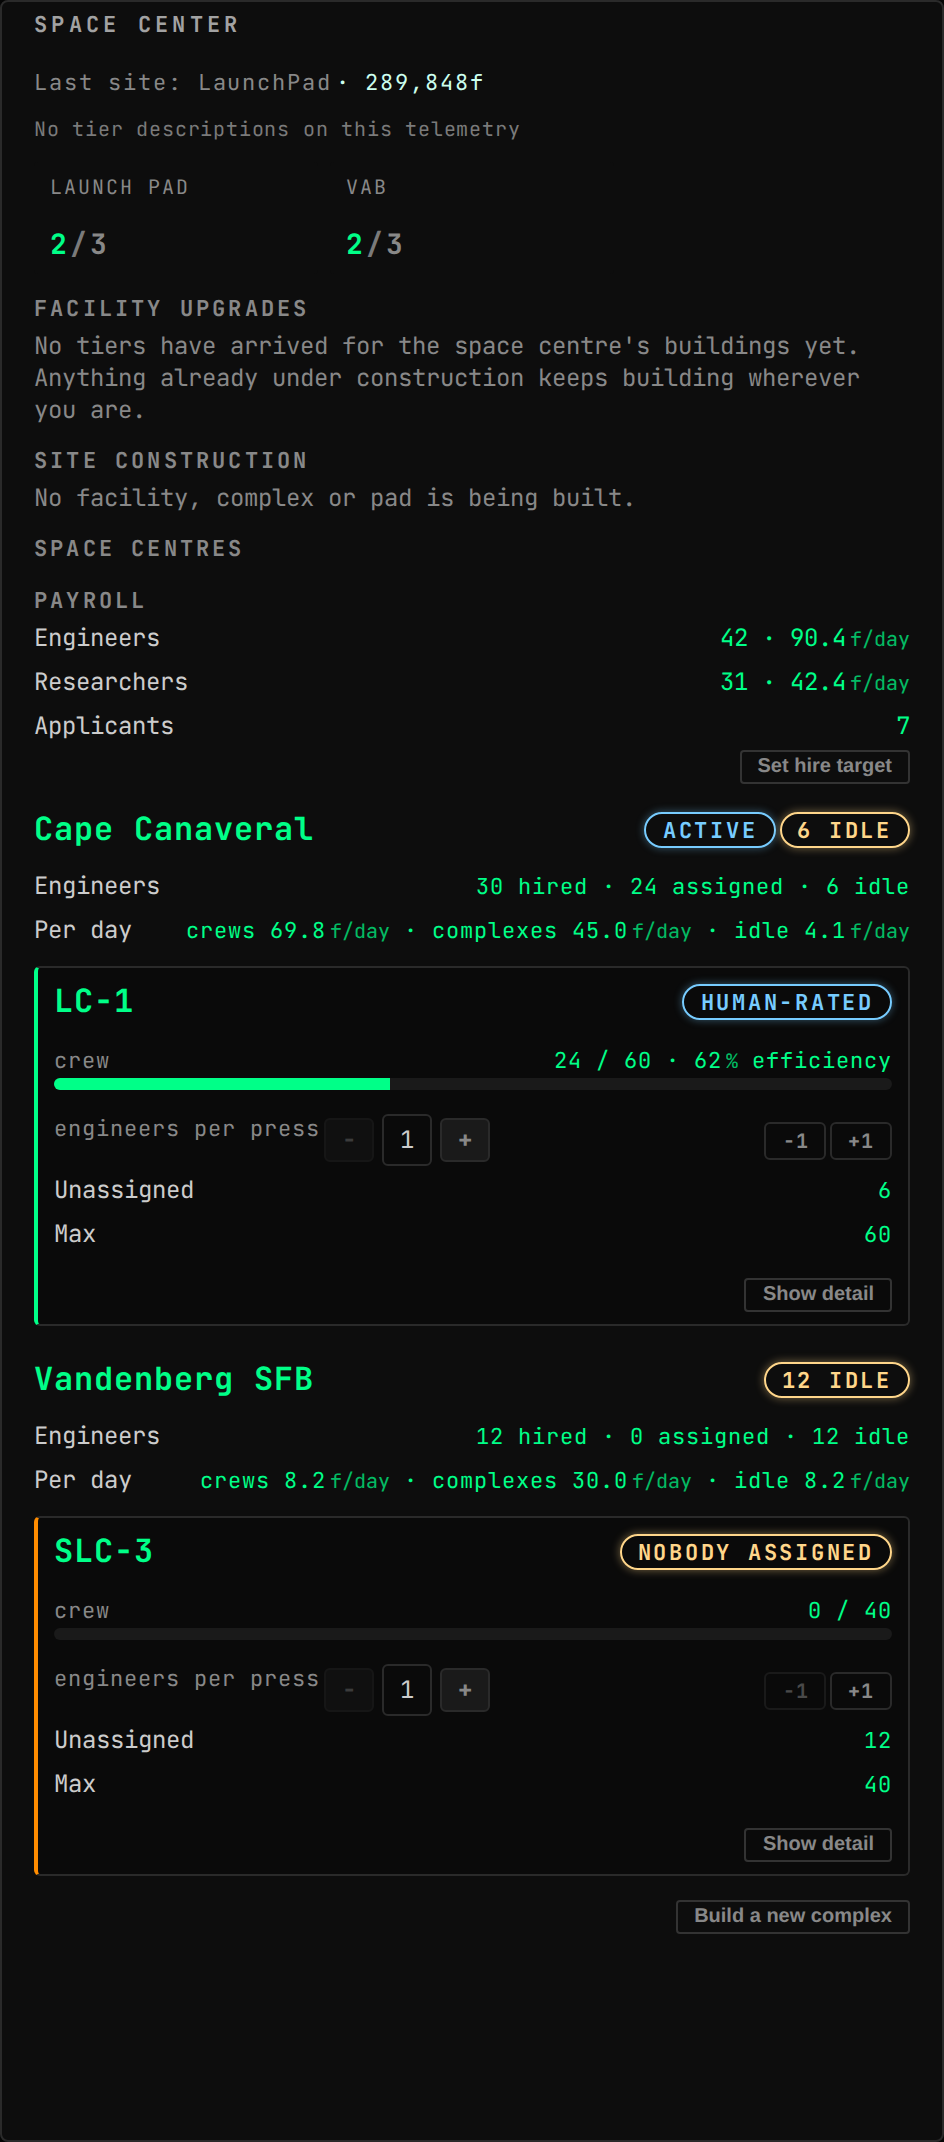
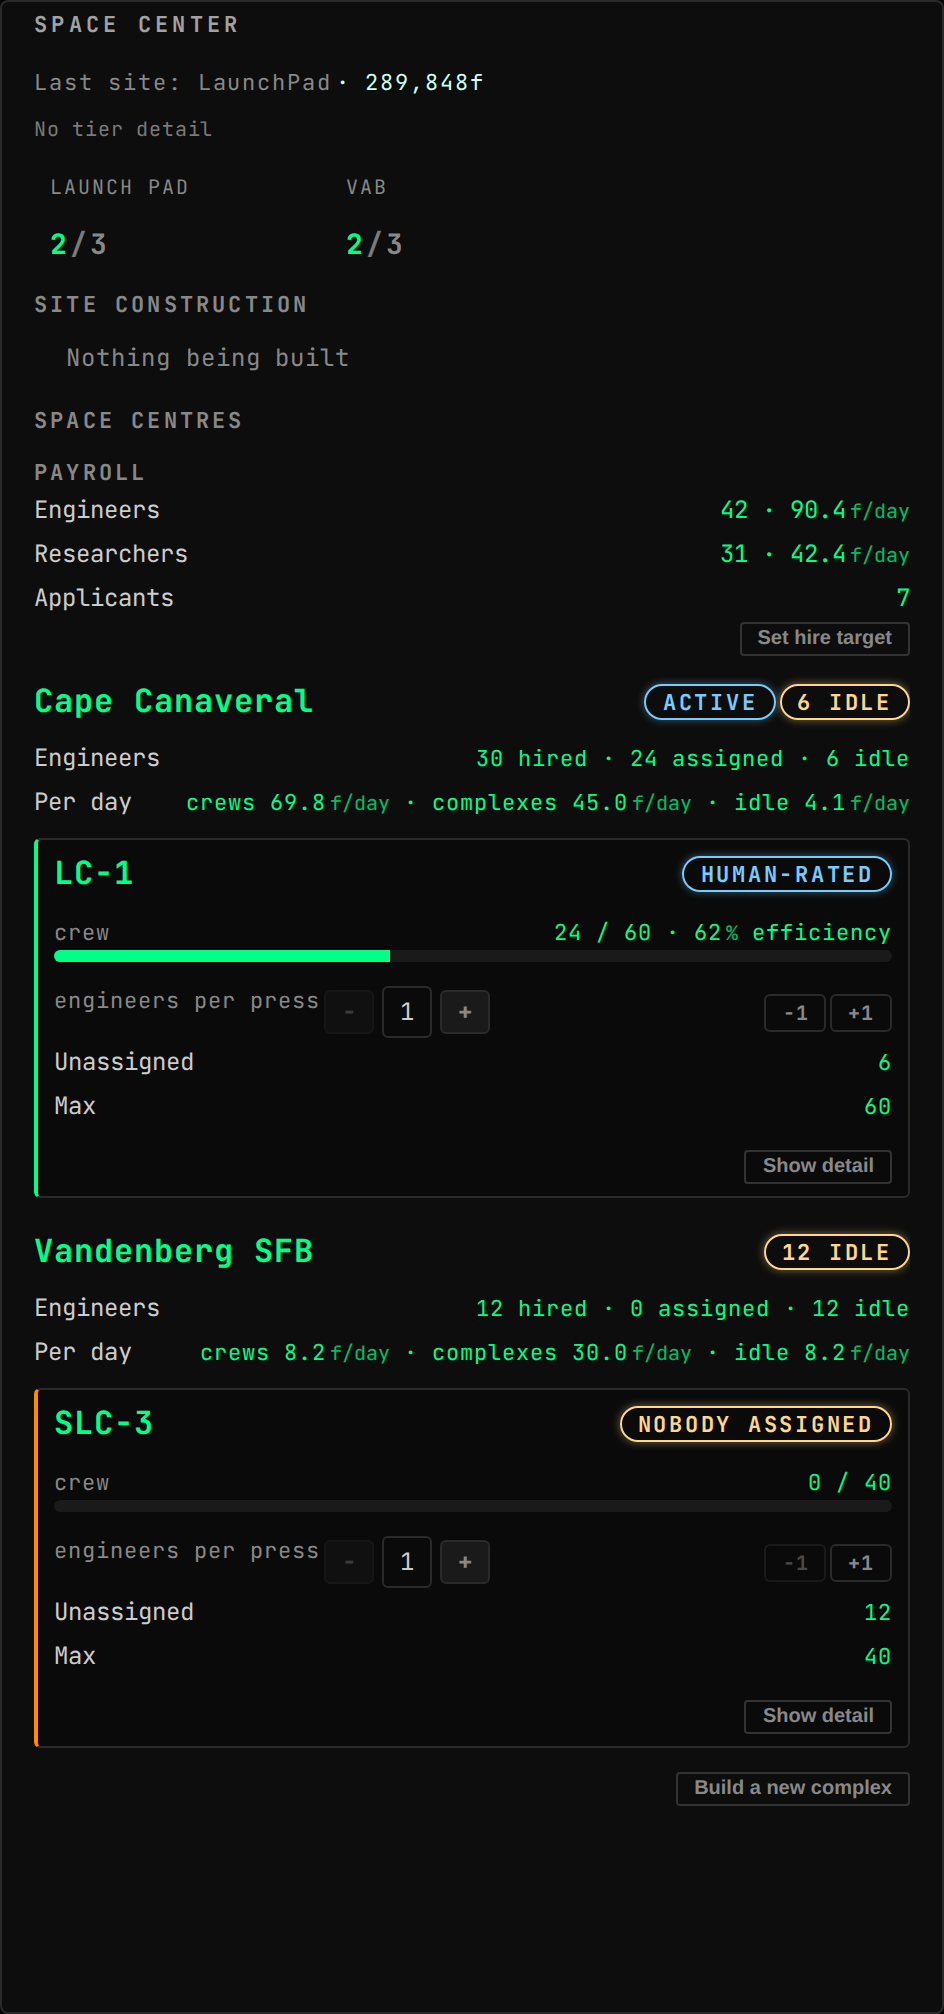
chore: regenerate Uplink pages

diff --git a/mod/GonogoRp1Uplink/client/README.md b/mod/GonogoRp1Uplink/client/README.md
@@ -238,7 +238,7 @@ Every craft RP-1 is integrating, holding or could start, across every launch com
 | `rp1-training-courses` | `astronaut-complex.training` | `rp1.available`, `rp1.training`, `rp1.crew` |  | 2 |  |
 | `rp1-training-enrolment` | `astronaut-complex.training` | `rp1.available`, `rp1.trainingCatalogue`, `rp1.crew`, `rp1.crewProgram`, `rp1.training`, `spaceCenter.crewRoster`, `career.status` |  | 3 |  |
 | `rp1-contract-payload` | `contract-manager.sections` | – |  | 1 |  |
-| `rp1-facility-upgrades` | `space-center-status.sections` | `rp1.available`, `career.status`, `rp1.constructions`, `rp1.facilities` | only while `rp1` | 2 |  |
+| `rp1-facility-upgrades` | `space-center-status.sections` | `rp1.available`, `career.status`, `rp1.constructions`, `rp1.facilities` | only while `rp1` | 3 |  |
 | `rp1-ksc-complexes` | `space-center-status.sections` | – |  | 12 |  |
 | `rp1-ksc-construction` | `space-center-status.sections` | – |  | 5 |  |
 | `rp1-launch-complex-status` | `launch-director.pad` | – |  | 2 |  |
@@ -271,9 +271,11 @@ Every craft RP-1 is integrating, holding or could start, across every launch com
 
 ![The payload requirement beside the contracts it shapes, with the consequence named before the press: changing either figure withdraws the matching pending offers, once each, which is the half RP-1's own tab never mentions](docs/assets/contract-payload--default.png)
 
-![A career with two tiers it could commit to and one building already in the queue. The balance covers one of the two prices and not the other, and neither is refused: RP-1 bills a construction as it builds, so a short career gets a slower upgrade. That is carried by "over the build" and by "Commit" on the confirm rather than by a sentence about it. Each badge names the tier the press BUYS, over the tier the building is at, so it cannot be read against the host's grid as a second opinion. The host's own stock Upgrade controls read Blocked above, because RP-1 does not sell a tier at all](docs/assets/facility-upgrades-at-centre--default.png)
+![A career with two tiers it could commit to and one building already in the queue. The balance covers one of the two prices and not the other, and neither is refused: RP-1 bills a construction as it builds, so a short career gets a slower upgrade. That is carried by "over the build" beside each price and by "Commit" on the confirm rather than by a sentence about it. Each badge is the tier the building is AT, the same number the host's grid reads for it, so the two cannot be read as a second opinion; the step is the control's, and it says "Queue upgrade". The host's own stock Upgrade controls read Blocked above, because RP-1 does not sell a tier at all](docs/assets/facility-upgrades-at-centre--default.png)
 
-![The same career with neither tier channel answering. "career.status" reads the live buildings, which KSP puts in the scene only at the space centre, and RP-1's own cost table has not loaded, so this is a cold start rather than a place. Said out loud, because a career with nothing left to upgrade renders the same silence, and said with the half an operator would otherwise fear, that an upgrade already under way is still building. The host's grid says the same thing once rather than nine times](docs/assets/facility-upgrades-away--default.png)
+![The same career, in flight, with RP-1's own tier channel answering. "career.status" reads the live buildings KSP instantiates at the space centre only, so the host's grid has nothing; RP-1 denormalises the level KSP persists in the save against its own config in every scene, so the tiers and the prices are here. The absence marker is keyed on whether the facilities area drew ANYTHING, not on this widget's own channel, so it is off screen: an operator flying an RP-1 career used to be told there were no facility tiers directly above a list of their facility tiers](docs/assets/facility-upgrades-away-rp1-answers--default.png)
+
+![The same career with neither tier channel answering. "career.status" reads the live buildings, which KSP puts in the scene only at the space centre, and RP-1's own cost table has not loaded. This section draws nothing at all rather than a paragraph about why: the host carries ONE absence marker for the whole facilities area, and it is keyed on whether that area drew anything, so the construction queue standing in it answers for it here. What an operator gets is the work that is real and no sentence about the reading that is not](docs/assets/facility-upgrades-away--default.png)
 
 ![LC-1's detail open on a career with 400f against a 14,118f pad: the quote, the reading that it is more than the balance, and a press that is still live because RP-1 slows the build rather than refusing it](docs/assets/complexes-add-pad--default.png)
 
